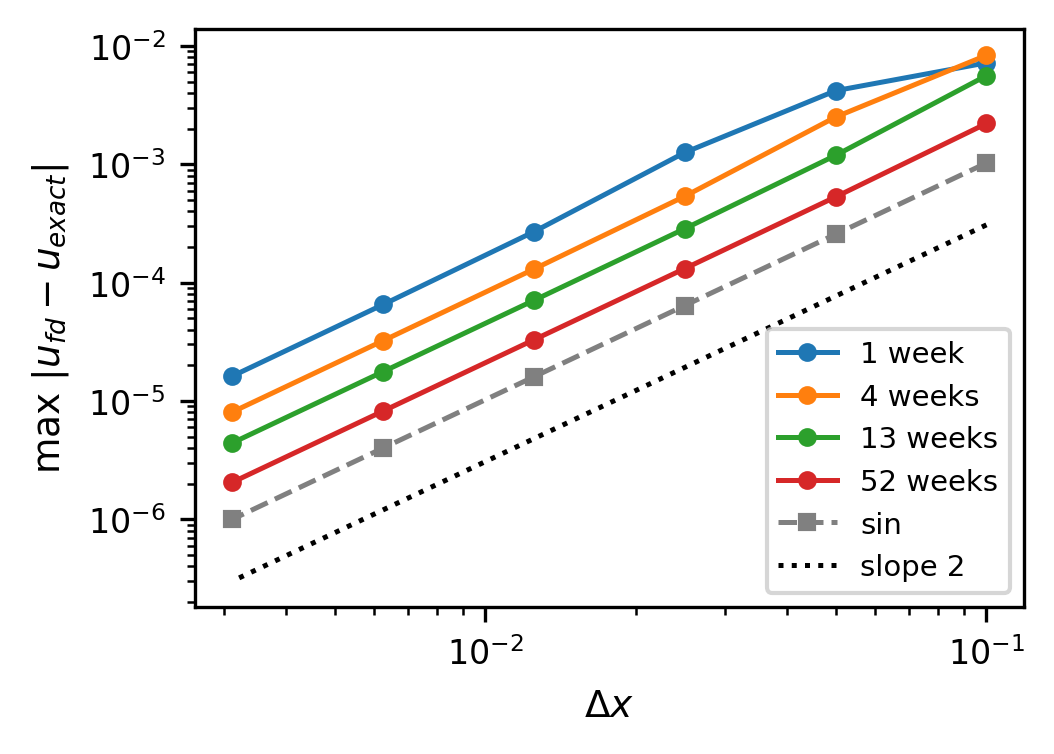
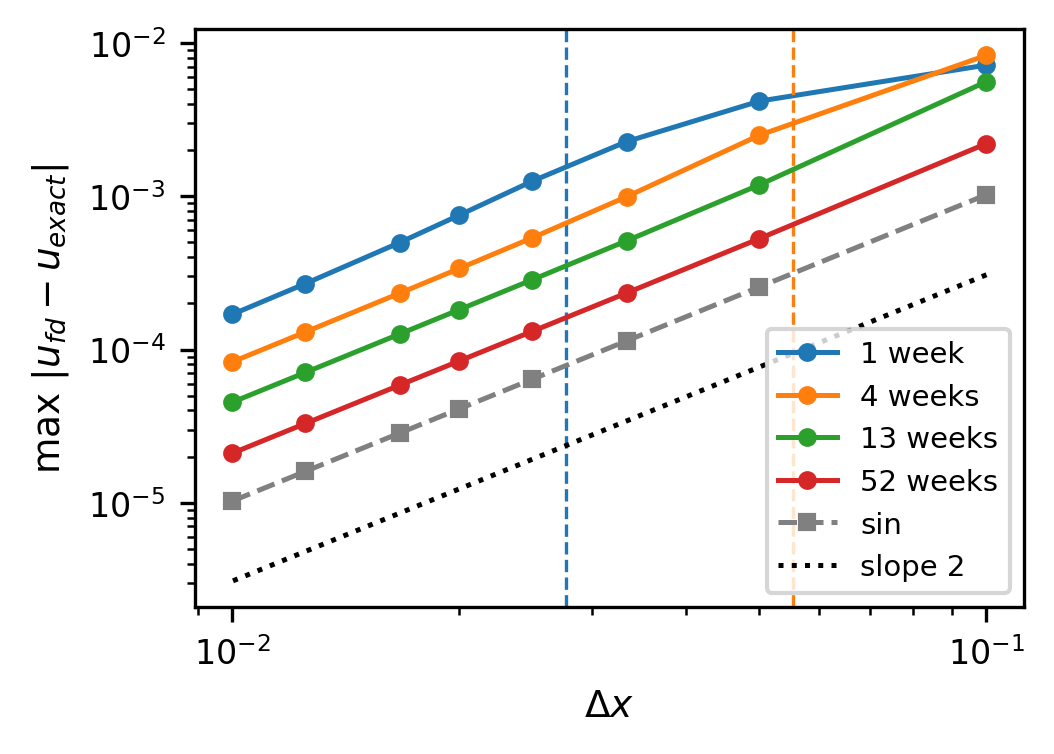
Edited plot. Will come back and change ledgend.

diff --git a/Code/parts/part_b/convergence.py b/Code/parts/part_b/convergence.py
@@ -6,7 +6,9 @@ from src.problems import bs_left_boundary, bs_right_boundary, bs_exact, sin_exac
 from src.finite_difference import explicit_scheme
 from src.plotting import save_fig
 
-dxs = [0.1 / 2**i for i in range(6)]
+# dx = 1/10 to 1/100, the range the task asks about. dx = 0.1 / n with whole n, so that one week (one step on the
+# coarsest grid) is a whole number of steps, n^2, on every grid, and the strike x = 0 is a grid point.
+dxs = [0.1 / n for n in (1, 2, 3, 4, 5, 6, 8, 10)]
 weeks = [1, 4, 13, 52]
 taus = [sigma**2 / 2 * w / 52 for w in weeks]
 zero = lambda tau: 0.0
@@ -34,11 +36,16 @@ for j, w in enumerate(weeks):
 
 fig, ax = plt.subplots()
 for j, w in enumerate(weeks):
-    ax.loglog(dxs, errors_bs[:, j], "o-", label=f"{w} week" + ("s" if w > 1 else ""))
+    line, = ax.loglog(dxs, errors_bs[:, j], "o-", label=f"{w} week" + ("s" if w > 1 else ""))
+    # The width sqrt(2 tau) of the smoothed kink: the error falls as dx^2 once dx is below it. Drawn only when it
+    # lies inside the plotted range (1 and 4 weeks; 13 weeks is at the edge and 52 weeks beyond it).
+    kink_width = np.sqrt(2 * taus[j])
+    if kink_width < 0.9 * dxs[0]:
+        ax.axvline(kink_width, color=line.get_color(), ls="--", lw=0.8)
 ax.loglog(dxs, errors_sin, "s--", color="gray", label="sin")
 ax.loglog(dxs, 0.3 * errors_sin[0] * (np.array(dxs) / dxs[0])**2, "k:", label="slope 2")   # below sin, not on top
 ax.set_xlabel(r"$\Delta x$")
 ax.set_ylabel(r"max $|u_{fd} - u_{exact}|$")
-ax.legend(fontsize=7)
+ax.legend(fontsize=7, loc="lower right")
 
 save_fig(fig, "fd_convergence")
